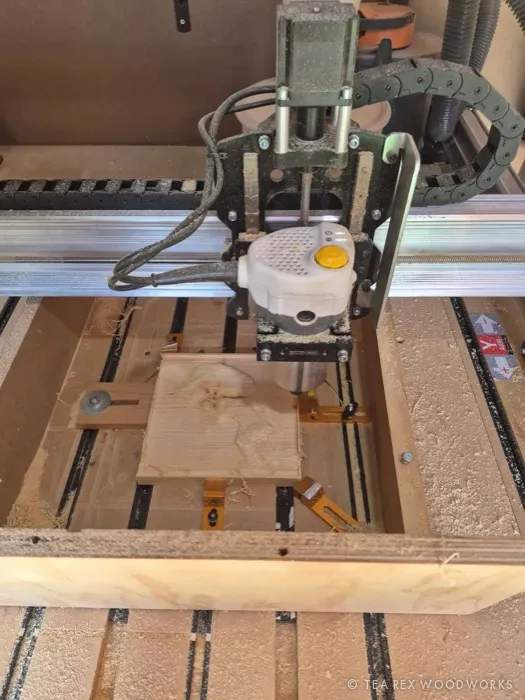
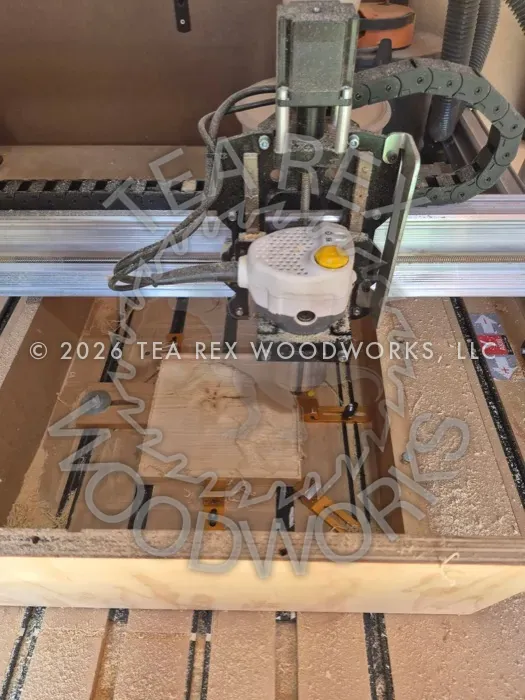
copyright

diff --git a/tools/add-image.py b/tools/add-image.py
@@ -21,12 +21,14 @@ from pathlib import Path
 
 from PIL import Image, ImageDraw, ImageFilter, ImageFont, ImageOps
 
-TEXT = "© TEA REX WOODWORKS"
 OWNER = "Tea Rex Woodworks, LLC"
 SIZES = (700, 1400)          # longest edge, px
 QUALITY = 80
-OPACITY = 0.62               # of the white lettering
+LOGO_OPACITY = 0.32          # of the white logo laid across the photo
+LOGO_FILL = 0.92             # logo size, as a share of the photo's short edge
+TEXT_OPACITY = 0.6           # of the copyright line through the middle
 IMG_DIR = Path(__file__).resolve().parent.parent / "site" / "img"
+LOGO = IMG_DIR / "logo-white.png"
 EXIF_COPYRIGHT = 0x8298
 
 # First one found wins. The last resort is Pillow's built-in font.
@@ -51,49 +53,60 @@ def is_stamped(im):
     return bool(im.getexif().get(EXIF_COPYRIGHT))
 
 
+def logo_mask(diameter):
+    """The logo as a greyscale mask, scaled to fit a square of the given size."""
+    logo = Image.open(LOGO).convert("RGBA")
+    logo.thumbnail((diameter, diameter), Image.LANCZOS)
+    return logo.getchannel("A")
+
+
 def stamp(im):
-    """Return a copy of im with the watermark in the bottom-right corner."""
+    """Return a copy of im with the logo across it and the copyright line in the middle."""
     im = im.convert("RGB")
     w, h = im.size
-    # Sized off the width, but kept readable on tall narrow pieces.
-    size = max(round(w * 0.02), round(max(w, h) * 0.016), 10)
-    tracking = size * 0.12
+    short, long = min(w, h), max(w, h)
 
-    def measure(font):
-        return sum(font.getlength(c) for c in TEXT) + tracking * (len(TEXT) - 1)
+    # One logo per roughly-square stretch, so a tall or wide piece is
+    # covered end to end and no crop of it comes out clean.
+    count = max(1, round(long / short))
+    diameter = round(min(short, long / count) * LOGO_FILL)
+    logo = logo_mask(diameter)
+    logos = Image.new("L", im.size, 0)
+    for i in range(count):
+        along = round(long * (i + 0.5) / count)
+        cx, cy = (along, h // 2) if w >= h else (w // 2, along)
+        logos.paste(logo, (cx - logo.width // 2, cy - logo.height // 2))
 
-    font = load_font(size)
-    while measure(font) > w * 0.9 and size > 6:
+    text = f"© {datetime.date.today().year} {OWNER.upper()}"
+    size = max(round(short * 0.042), 9)
+
+    def measure(font, tracking):
+        return sum(font.getlength(c) for c in text) + tracking * (len(text) - 1)
+
+    font, tracking = load_font(size), size * 0.12
+    while measure(font, tracking) > w * 0.92 and size > 6:
         size -= 1
-        font = load_font(size)
-        tracking = size * 0.12
+        font, tracking = load_font(size), size * 0.12
 
-    margin = round(size * 1.1)
-    x = w - margin - measure(font)
-    y = h - margin - size
+    line = Image.new("L", im.size, 0)
+    d = ImageDraw.Draw(line)
+    x = (w - measure(font, tracking)) / 2
+    for c in text:
+        d.text((x, h / 2), c, font=font, fill=255, anchor="lm")
+        x += font.getlength(c) + tracking
 
-    def draw_text(layer, fill):
-        d = ImageDraw.Draw(layer)
-        cx = x
-        for c in TEXT:
-            d.text((cx, y), c, font=font, fill=fill)
-            cx += font.getlength(c) + tracking
-
-    # Soft dark halo so the mark reads on pale wood as well as dark.
-    shadow = Image.new("L", im.size, 0)
-    draw_text(shadow, 150)
-    shadow = shadow.filter(ImageFilter.GaussianBlur(max(size * 0.18, 1.5)))
-    im.paste((0, 0, 0), mask=shadow)
-
-    text = Image.new("L", im.size, 0)
-    draw_text(text, round(255 * OPACITY))
-    im.paste((255, 255, 255), mask=text)
+    # Soft dark halo under each layer so the mark reads on pale wood as well as dark.
+    for mask, opacity, halo in ((logos, LOGO_OPACITY, 0.5), (line, TEXT_OPACITY, 0.6)):
+        blur = max(size * 0.15, 1.5)
+        shadow = mask.filter(ImageFilter.GaussianBlur(blur)).point(lambda v: round(v * halo))
+        im.paste((0, 0, 0), mask=shadow)
+        im.paste((255, 255, 255), mask=mask.point(lambda v: round(v * opacity)))
     return im
 
 
 def save(im, dest):
     exif = Image.Exif()
-    exif[EXIF_COPYRIGHT] = f"© {datetime.date.today().year} {OWNER}"
+    exif[EXIF_COPYRIGHT] = f"Copyright {datetime.date.today().year} {OWNER}"  # EXIF text is ASCII
     im.save(dest, "WEBP", quality=QUALITY, method=6, exif=exif)
 
 

diff --git a/README.md b/README.md
@@ -106,7 +106,7 @@ Images are only cached by filename, so a replaced photo needs a new filename.
 
 ## Adding a piece to the gallery
 
-Every photo on the site carries a small "© TEA REX WOODWORKS" watermark in the bottom-right corner. `tools/add-image.py` resizes, watermarks and converts in one step, so don't put photos into `site/img/` by hand.
+Every photo on the site is watermarked: the logo laid translucently across the whole image, with "© 2026 TEA REX WOODWORKS, LLC" (the year it was stamped) through the middle, so it can't be cropped out. `tools/add-image.py` resizes, watermarks and converts in one step, so don't put photos into `site/img/` by hand.
 
 1. Export the photo as JPEG or PNG (for an iPhone HEIC: `sips -s format jpeg photo.heic --out photo.jpg`), then:
    ```
@@ -116,7 +116,7 @@ Every photo on the site carries a small "© TEA REX WOODWORKS" watermark in the 
 2. Paste the block into the gallery in `site/index.html` and fill in the `alt` text, the title and the tag.
 3. Set `data-kind` to `wildlife`, `signs`, `portraits` or `art` so the filter buttons pick it up.
 
-Always start from the original photo, not a file already in `site/img/`. The script won't watermark the same file twice (stamped files carry a copyright tag in their metadata), and it refuses to overwrite an existing name. A WebP that got into `site/img/` without a watermark can be stamped in place with `tools/add-image.py --stamp site/img/name-700.webp site/img/name-1400.webp`. The wording, size and opacity of the mark are constants at the top of the script.
+Always start from the original photo, not a file already in `site/img/`. The script won't watermark the same file twice (stamped files carry a copyright tag in their metadata), and it refuses to overwrite an existing name. A WebP that got into `site/img/` without a watermark can be stamped in place with `tools/add-image.py --stamp site/img/name-700.webp site/img/name-1400.webp`. The owner name, logo size and opacities are constants at the top of the script; the logo itself is `site/img/logo-white.png`.
 
 ## Copy to confirm with the owner
 
